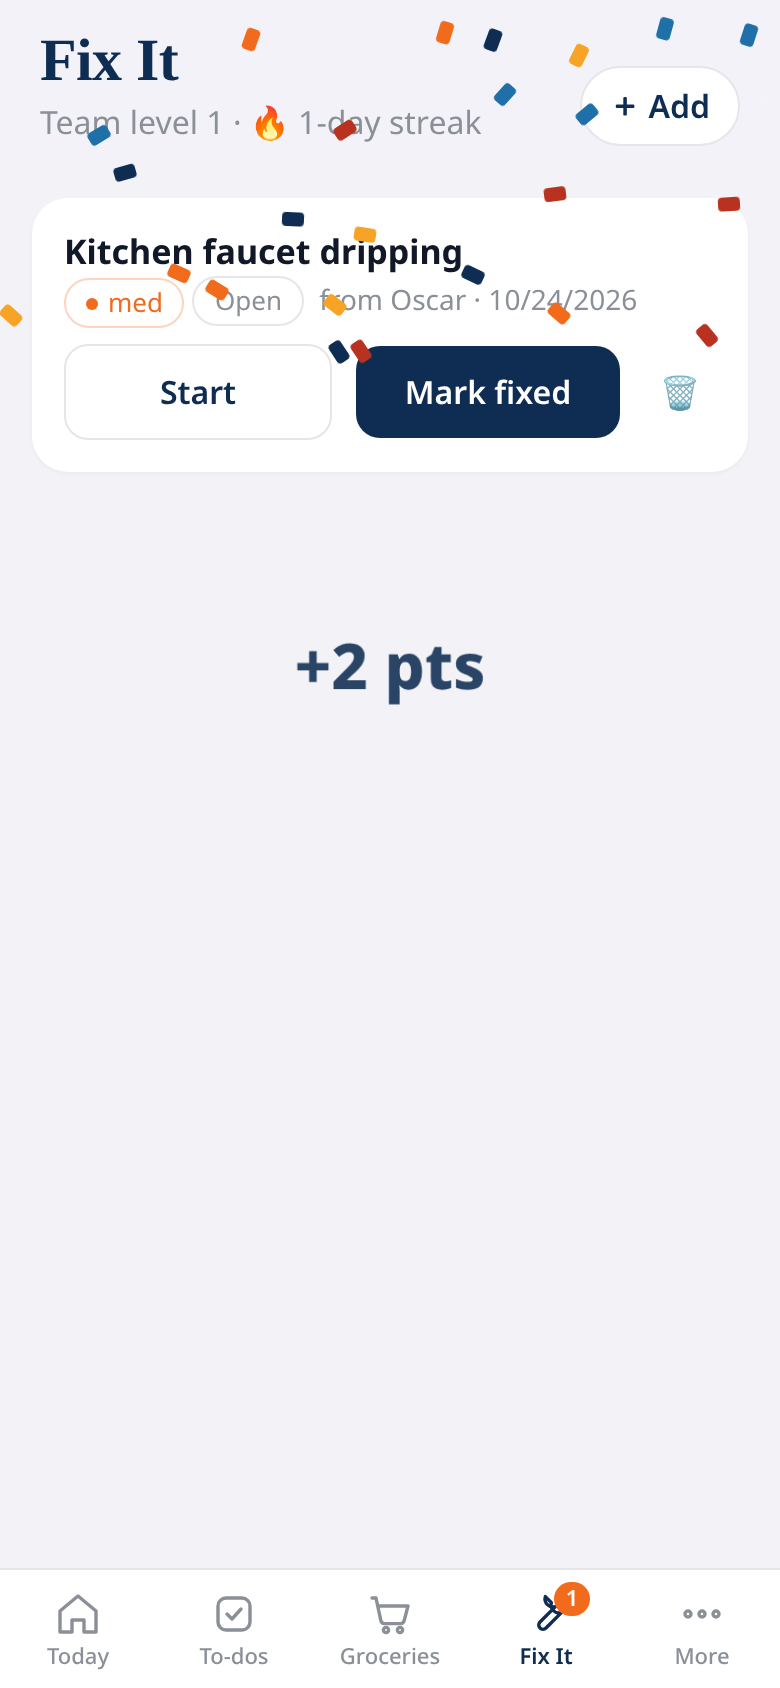
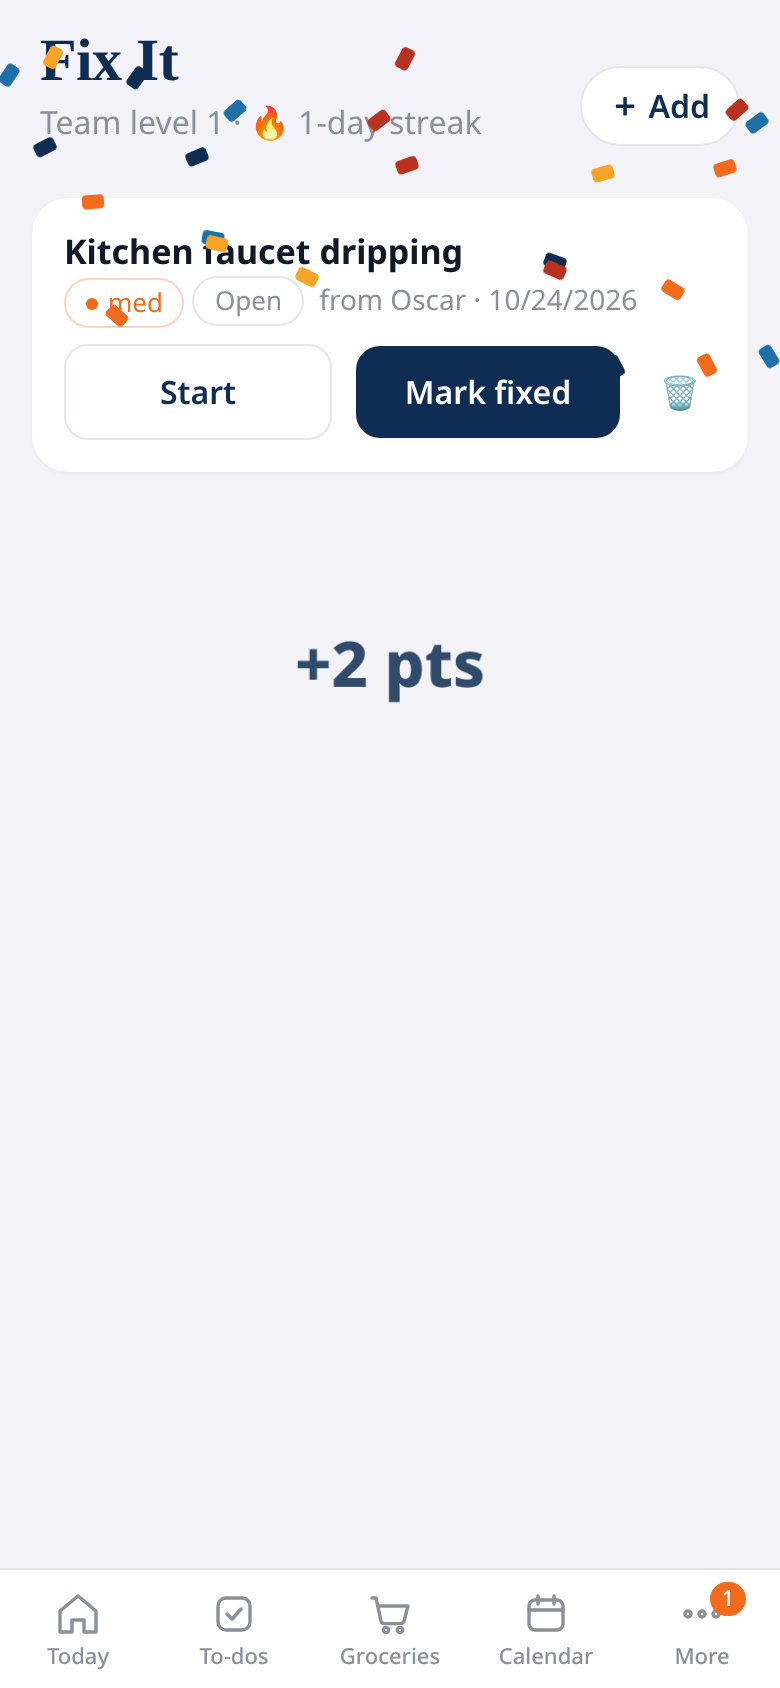
v8: shared smart calendar, work ICS import, Fix It moved to More/Today

diff --git a/cal.js b/cal.js
@@ -1,0 +1,90 @@
+// @ts-nocheck
+// Shared calendar module for Arpero Family + Arpero Shop. Data: families/arpero/{events,chores,maint,dates}, meta/work, private/ics
+const pad=n=>String(n).padStart(2,'0'),ymd=d=>`${d.getFullYear()}-${pad(d.getMonth()+1)}-${pad(d.getDate())}`,hm=d=>`${pad(d.getHours())}:${pad(d.getMinutes())}`;
+const esc=s=>String(s??'').replace(/[&<>"']/g,c=>'&#'+c.charCodeAt(0)+';');
+const addD=(s,n)=>{const d=new Date(s+'T12:00');d.setDate(d.getDate()+n);return ymd(d)};
+export function parseICS(txt,days=75){const un=txt.replace(/\r?\n[ \t]/g,''),out=[],now=new Date(),lim=new Date(+now+days*864e5),from=new Date(+now-2*864e5);
+ const dt=(v,p)=>{if(!v)return null;if(/^\d{8}$/.test(v))return new Date(+v.slice(0,4),+v.slice(4,6)-1,+v.slice(6,8));const m=v.match(/(\d{4})(\d\d)(\d\d)T(\d\d)(\d\d)(\d\d)?(Z?)/);if(!m)return null;
+  return m[7]?new Date(Date.UTC(+m[1],+m[2]-1,+m[3],+m[4],+m[5])):new Date(+m[1],+m[2]-1,+m[3],+m[4],+m[5])};
+ for(const blk of un.split('BEGIN:VEVENT').slice(1)){const b=blk.split('END:VEVENT')[0],get=k=>{const m=b.match(new RegExp('^'+k+'([;:][^\\n]*)$','m'));if(!m)return null;const i=m[1].lastIndexOf(':');return{p:m[1].slice(0,i),v:m[1].slice(i+1).trim()}};
+  if(/^STATUS:CANCELLED/m.test(b)||/^TRANSP:TRANSPARENT/m.test(b))continue;const s0=get('DTSTART'),e0=get('DTEND');const s=dt(s0?.v),e=dt(e0?.v)||(s&&new Date(+s+36e5));if(!s)continue;
+  const allDay=/^\d{8}$/.test(s0.v),dur=e-s,ex=new Set();(b.match(/^EXDATE[^:]*:(.*)$/gm)||[]).forEach(l=>l.split(':').pop().split(',').forEach(v=>{const d=dt(v.trim());d&&ex.add(+d)}));
+  const push=st=>{if(ex.has(+st))return;const en=new Date(+st+dur);if(en>=from&&st<=lim)out.push({s:allDay?ymd(st):ymd(st)+'T'+hm(st),e:allDay?ymd(new Date(+en-1)):ymd(en)+'T'+hm(en),allDay})};
+  const rr=get('RRULE');if(!rr){push(s);continue}
+  const R=Object.fromEntries(rr.v.split(';').map(x=>x.split('='))),iv=+R.INTERVAL||1,until=R.UNTIL?dt(R.UNTIL):lim,cnt=+R.COUNT||1e4,DAYS=['SU','MO','TU','WE','TH','FR','SA'];
+  let n=0;const end=until<lim?until:lim;
+  if(R.FREQ==='WEEKLY'){const by=R.BYDAY?R.BYDAY.split(',').map(x=>DAYS.indexOf(x.slice(-2))):[s.getDay()];const ws=new Date(s);ws.setDate(ws.getDate()-ws.getDay());
+   for(let w=new Date(ws);w<=end&&n<cnt;w.setDate(w.getDate()+7*iv))for(const d of by.sort()){const st=new Date(w);st.setDate(w.getDate()+d);st.setHours(s.getHours(),s.getMinutes(),0,0);if(st<s||st>end||n>=cnt)continue;n++;push(st)}}
+  else if(R.FREQ==='DAILY'){for(let st=new Date(s);st<=end&&n<cnt;st.setDate(st.getDate()+iv)){n++;push(new Date(st))}}
+  else if(R.FREQ==='MONTHLY'){for(let st=new Date(s);st<=end&&n<cnt;st.setMonth(st.getMonth()+iv)){n++;push(new Date(st))}}
+  else push(s)}
+ return out.sort((a,b)=>a.s>b.s?1:-1)}
+export function initCal({db,F,me,el,app,names={oscar:'Oscar',wife:'Kerissa'},onChange}){
+ const C=n=>F.collection(db,'families','arpero',n),D=(n,id)=>F.doc(db,'families','arpero',n,id),S={events:[],chores:[],maint:[],dates:[],work:{blocks:[]},ics:{},view:'agenda',sheet:null};
+ const nm=k=>names[k]||k,uid=()=>Math.random().toString(36).slice(2,10);
+ const subs=[];
+ async function refreshICS(force){const u=(S.ics.url||'').trim().replace(/^webcal:/i,'https:');if(!u)return;S.busy=true;render();let txt='',how='direct';
+  try{const r=await fetch(u,{cache:'no-store'});if(!r.ok)throw Error('HTTP '+r.status);txt=await r.text()}catch(e){if(!S.ics.proxy){await F.setDoc(D('meta','work'),{...S.work,err:'Blocked by the browser (CORS). Add a proxy URL in settings.',at:Date.now()});S.busy=false;return render()}
+   try{how='proxy';const r=await fetch(S.ics.proxy+encodeURIComponent(u),{cache:'no-store'});if(!r.ok)throw Error('HTTP '+r.status);txt=await r.text()}catch(e2){await F.setDoc(D('meta','work'),{...S.work,err:'Could not load: '+e2.message,at:Date.now()});S.busy=false;return render()}}
+  if(!/BEGIN:VCALENDAR/.test(txt)){await F.setDoc(D('meta','work'),{...S.work,err:'That link is not a calendar (.ics) file.',at:Date.now()});S.busy=false;return render()}
+  const blocks=parseICS(txt);await F.setDoc(D('meta','work'),{blocks,at:Date.now(),err:'',how});S.busy=false;render()}
+ let tried=false;function maybeRefresh(){if(tried||!S.ics.url)return;tried=true;if(!S.work.at||Date.now()-S.work.at>6*36e5)refreshICS()}
+ setInterval(()=>{tried=false;maybeRefresh()},30*6e4);
+ function all(from,to){const L=[],inR=d=>d>=from&&d<=to;
+  S.events.forEach(e=>{if(inR(e.s.slice(0,10)))L.push({...e,lab:e.src==='shop'?(app==='shop'?e.title:`Oscar busy: Shop${e.title?' · '+e.title:''}`):e.title,c:e.src==='shop'?'#0f2d52':e.kind==='date'?'#e0457b':'#f26a1b'})});
+  (S.work.blocks||[]).forEach(b=>inR(b.s.slice(0,10))&&L.push({...b,lab:'Oscar at work',c:'#8a8f98',src:'work',ro:1}));
+  S.chores.forEach(c=>c.next&&inR(c.next<from?from:c.next)&&L.push({s:c.next<from?from:c.next,allDay:true,lab:`🧹 ${c.name} (${nm(c.turn)})`,c:'#f26a1b',ro:1}));
+  S.maint.forEach(m=>{const due=m.last?addD(m.last,m.every):from;inR(due<from?from:due)&&L.push({s:due<from?from:due,allDay:true,lab:'🛠 '+m.name,c:'#f7a325',ro:1})});
+  S.dates.forEach(d=>{if(!d.date)return;let n=d.date;if(d.yearly){const y=+from.slice(0,4);n=y+d.date.slice(4);if(n<from)n=(y+1)+d.date.slice(4)}inR(n)&&L.push({s:n,allDay:true,lab:'📅 '+d.name,c:'#e0457b',ro:1})});
+  return L.sort((a,b)=>(a.s.slice(0,10)+(a.allDay?'':a.s.slice(10)))>(b.s.slice(0,10)+(b.allDay?'':b.s.slice(10)))?1:-1)}
+ function busy(day){return all(day,day).filter(e=>!e.allDay&&e.s.includes('T')).map(e=>[e.s.slice(11),e.e?.slice(11)||e.s.slice(11)])}
+ function suggest(kind){const out=[],t=new Date(),dur=kind==='date'?3:1;for(let i=0;i<21&&out.length<3;i++){const day=addD(ymd(t),i),dow=new Date(day+'T12:00').getDay(),b=busy(day);
+   const starts=kind==='date'?(dow===5||dow===6?[18,19,17]:[19]):[9,10,11,13,14,15,16,17,18,19];if(kind==='date'&&![0,5,6].includes(dow)&&i<7&&out.length<1)continue;
+   for(const h of starts){const s=pad(h)+':00',e=pad(h+dur)+':00';if(i===0&&h<=t.getHours())continue;if(b.some(([bs,be])=>bs<e&&be>s))continue;out.push({day,s,e});break}}return out}
+ const css=`<style>.cal .dh{font-weight:700;color:#0f2d52;margin:18px 4px 8px;font-size:15px}.cal .ev{display:flex;gap:12px;align-items:center;background:#fff;padding:14px 16px;border-bottom:1px solid #e5e5ea;min-height:56px}.cal .ev:last-child{border-bottom:0}.cal .grp{background:#fff;border-radius:18px;overflow:hidden}
+ .cal .dot{width:10px;height:10px;border-radius:50%;flex:0 0 10px}.cal .tm{color:#8a8f98;font-size:14px;width:74px;flex:0 0 74px}.cal .chip{display:inline-block;margin:6px 6px 0 0;padding:10px 14px;border-radius:20px;border:1px solid #e5e5ea;background:#fff;color:#0f2d52;font-size:15px}
+ .cal .mod{position:fixed;inset:0;background:rgba(0,0,0,.3);z-index:50;display:flex;align-items:flex-end}.cal .mod>div{background:#f2f2f7;width:100%;max-height:92vh;overflow:auto;border-radius:20px 20px 0 0;padding:20px 20px calc(20px + env(safe-area-inset-bottom))}
+ .cal input,.cal select,.cal textarea{font-size:16px;width:100%;padding:12px 14px;border:1px solid #e5e5ea;border-radius:12px;background:#fff;box-sizing:border-box;-webkit-appearance:none}.cal label{display:block;margin:14px 0 6px;font-size:14px;color:#8a8f98}
+ .cal button{font-size:16px;min-height:46px;border:0;border-radius:12px;padding:12px 16px;background:#0f2d52;color:#fff;font-weight:600}.cal button.s{background:#fff;color:#0f2d52;border:1px solid #e5e5ea}.cal .r{display:flex;gap:10px}.cal .r>*{flex:1}.cal .sub{color:#8a8f98;font-size:14px}.cal .warn{background:#fff4ec;border-radius:14px;padding:12px 14px;margin:10px 0;font-size:15px}</style>`;
+ function render(){if(!el.isConnected&&!el.closest)return;const from=ymd(new Date()),to=addD(from,13),L=all(from,to),by={};L.forEach(e=>(by[e.s.slice(0,10)]=by[e.s.slice(0,10)]||[]).push(e));
+  const tl=e=>e.allDay||!e.s.includes('T')?'All day':e.s.slice(11)+(e.e&&e.e.includes('T')?'–'+e.e.slice(11):'');
+  const fmt=d=>{const x=new Date(d+'T12:00');return d===from?'Today':d===addD(from,1)?'Tomorrow':x.toLocaleDateString('en',{weekday:'long',month:'short',day:'numeric'})};
+  el.innerHTML=css+`<div class="cal"><div class="r" style="margin:6px 0"><button id="cAdd">＋ Add event</button>${me==='oscar'?'<button class="s" id="cSet" style="flex:0 0 auto">⚙ Work calendar</button>':''}</div>
+  ${S.work.err&&me==='oscar'?`<div class="warn">Work calendar: ${esc(S.work.err)}</div>`:''}${S.busy?'<div class="sub">Refreshing work calendar…</div>':''}
+  ${Object.keys(by).length?Object.entries(by).map(([d,es])=>`<div class="dh">${fmt(d)}</div><div class="grp">${es.map(e=>`<div class="ev" ${e.id&&!e.ro?`data-cev="${e.id}"`:''}><span class="tm">${tl(e)}</span><span class="dot" style="background:${e.c}"></span><span style="flex:1">${esc(e.lab)}</span></div>`).join('')}</div>`).join(''):'<p class="sub" style="text-align:center;margin:30px 0">Nothing in the next 2 weeks.</p>'}
+  <p class="sub" style="margin:16px 4px">● Family &nbsp; <span style="color:#0f2d52">●</span> Shop &nbsp; <span style="color:#8a8f98">●</span> Work${S.work.at?' · work updated '+new Date(S.work.at).toLocaleString('en',{weekday:'short',hour:'numeric',minute:'2-digit'}):''}</p>${S.sheet||''}</div>`;
+  el.querySelector('#cAdd').onclick=()=>edit();el.querySelector('#cSet')&&(el.querySelector('#cSet').onclick=settings);
+  el.querySelectorAll('[data-cev]').forEach(x=>x.onclick=()=>edit(S.events.find(e=>e.id===x.dataset.cev)));
+  if(S.sheet)bindSheet();onChange?.()}
+ let bindSheet=()=>{};const close=()=>{S.sheet=null;render()};
+ function edit(e={}){const isShop=app==='shop';
+  S.sheet=`<div class="mod"><div><h2 style="margin:0 0 6px;color:#0f2d52">${e.id?'Edit':'New'} event</h2><label>What</label><input id="ct" value="${esc(e.title)}" placeholder="${isShop?'Pickup: walnut board':'Date night'}">
+  <label>Type</label><select id="ck">${(isShop?[['shop','Shop (build, pickup, order due)']]:[['date','Date night'],['chore','Chore / errand'],['family','Family']]).concat(isShop?[['family','Family']]:[]).map(([v,l])=>`<option value="${v}" ${(e.kind||(isShop?'shop':'family'))===v?'selected':''}>${l}</option>`).join('')}</select>
+  <div id="csug"></div><button class="s" id="cs" style="margin-top:10px;width:100%">✨ Suggest a free time</button>
+  <div class="r"><div><label>Date</label><input id="cd" type="date" value="${e.s?e.s.slice(0,10):ymd(new Date())}"></div></div>
+  <div class="r"><div><label>Start</label><input id="c1" type="time" value="${e.s&&e.s.includes('T')?e.s.slice(11):''}"></div><div><label>End</label><input id="c2" type="time" value="${e.e&&e.e.includes('T')?e.e.slice(11):''}"></div></div>
+  <p class="sub">Leave times empty for an all-day item.</p><div class="r" style="margin-top:14px"><button class="s" id="cx">Cancel</button><button id="co">Save</button></div>${e.id?'<button class="s" id="cdel" style="width:100%;margin-top:10px;color:#d1402b">Delete</button>':''}</div></div>`;
+  bindSheet=()=>{const q=s=>el.querySelector(s);q('#cx').onclick=close;q('.mod').onclick=ev=>{if(ev.target.classList.contains('mod'))close()};
+   q('#cs').onclick=()=>{const k=q('#ck').value,sg=suggest(k==='date'?'date':'chore');q('#csug').innerHTML=sg.length?'<label>Free times (avoids work & shop)</label>'+sg.map(x=>`<span class="chip" data-d="${x.day}" data-s="${x.s}" data-e="${x.e}">${new Date(x.day+'T12:00').toLocaleDateString('en',{weekday:'short',month:'short',day:'numeric'})} · ${x.s}</span>`).join(''):'<p class="sub">No free slot found in 3 weeks.</p>';
+    q('#csug').querySelectorAll('.chip').forEach(c=>c.onclick=()=>{q('#cd').value=c.dataset.d;q('#c1').value=c.dataset.s;q('#c2').value=c.dataset.e;if(!q('#ct').value)q('#ct').value=k==='date'?'Date night 💑':''})};
+   q('#co').onclick=async()=>{const t=q('#ct').value.trim(),d=q('#cd').value;if(!t||!d)return;const a=q('#c1').value,b=q('#c2').value,k=q('#ck').value;
+    const id=e.id||uid();await F.setDoc(D('events',id),{...e,id,title:t,kind:k,src:k==='shop'?'shop':'family',s:a?d+'T'+a:d,e:a?(d+'T'+(b||a)):d,allDay:!a,by:me,at:Date.now()});close()};
+   if(e.id)q('#cdel').onclick=async()=>{await F.deleteDoc(D('events',e.id));close()}};
+  render()}
+ function settings(){S.sheet=`<div class="mod"><div><h2 style="margin:0 0 6px;color:#0f2d52">Work calendar (Outlook)</h2><p class="sub">In Outlook on the web: Settings → Calendar → Shared calendars → Publish a calendar → "Can view when I'm busy" → copy the <b>ICS</b> link and paste it here. Only you two can see it.</p>
+  <label>ICS link</label><textarea id="iu" rows="3" autocapitalize="off" autocorrect="off" spellcheck="false" inputmode="url" placeholder="https://outlook.office365.com/owa/calendar/…/calendar.ics">${esc(S.ics.url||'')}</textarea>
+  <div class="r" style="margin-top:8px"><button class="s" id="ip">📋 Paste</button><button class="s" id="ic">Clear</button></div>
+  <label>Proxy (only if Outlook blocks the direct fetch)</label><input id="ix" autocapitalize="off" autocorrect="off" spellcheck="false" inputmode="url" placeholder="https://your-worker.workers.dev/?url=" value="${esc(S.ics.proxy||'')}">
+  <div class="r" style="margin-top:14px"><button class="s" id="cx">Cancel</button><button id="co">Save & refresh</button></div></div></div>`;
+  bindSheet=()=>{const q=s=>el.querySelector(s);q('#cx').onclick=close;q('#ic').onclick=()=>q('#iu').value='';
+   q('#ip').onclick=async()=>{try{q('#iu').value=(await navigator.clipboard.readText()).trim()}catch{q('#iu').focus()}};
+   q('#co').onclick=async()=>{const url=q('#iu').value.trim(),proxy=q('#ix').value.trim();S.ics={url,proxy};await F.setDoc(D('private','ics'),{url,proxy,at:Date.now()});if(!url)await F.setDoc(D('meta','work'),{blocks:[],at:Date.now(),err:''});close();if(url)refreshICS(true)}};
+  render()}
+ // Shop app: mirror project due dates into the shared store
+ async function syncShop(items){const keep=new Set();for(const it of items){if(!it.date)continue;const id='shop_'+it.id;keep.add(id);const cur=S.events.find(e=>e.id===id);
+   if(!cur||cur.title!==it.title||cur.s!==it.date)await F.setDoc(D('events',id),{id,title:it.title,kind:'shop',src:'shop',s:it.date,e:it.date,allDay:true,auto:true,by:'oscar',at:Date.now()})}
+  for(const e of S.events)if(e.auto&&e.src==='shop'&&!keep.has(e.id))await F.deleteDoc(D('events',e.id))}
+ ['events','chores','maint','dates'].forEach(n=>subs.push(F.onSnapshot(C(n),s=>{S[n]=s.docs.map(d=>d.data());render()},()=>{})));
+ subs.push(F.onSnapshot(D('meta','work'),s=>{S.work=s.exists()?s.data():{blocks:[]};render()},()=>{}));
+ if(me==='oscar')subs.push(F.onSnapshot(D('private','ics'),s=>{S.ics=s.exists()?s.data():{};maybeRefresh();render()},()=>{}));
+ render();return{render,syncShop,suggest,stop:()=>subs.forEach(f=>f())}}

diff --git a/index.html b/index.html
@@ -109,11 +109,12 @@ if(A.isSignInWithEmailLink(auth,location.href)){let e=localStorage.emailForSignI
 function afterLinkSheet(){if(!linkNote)return;linkNote=false;const u=auth.currentUser;
  sheet(`<h2>You're signed in! 🎉</h2><p>Next time, just tap the <b>Arpero Family</b> icon on your home screen.</p><p class="sub">If the home-screen app asks you to sign in again, create a password below, then in the app tap <b>Sign in with email → Use a password instead</b>.</p><label>New password (optional)</label><input id="npw" type="password" autocomplete="new-password" placeholder="At least 6 characters"><button id="npwb" style="width:100%;margin-top:10px">Save password</button><p id="npwm" class="sub"></p>`);
   $('#npwb').onclick=async()=>{try{await A.updatePassword(u,$('#npw').value);$('#npwm').textContent='✅ Password saved. Use it in the home-screen app.'}catch(x){$('#npwm').textContent=errTxt(x)}}}
-let unsubs=[];
+let unsubs=[],calApi=null;const calEl=document.createElement('div');
 A.onAuthStateChanged(auth,u=>{unsubs.forEach(f=>f());unsubs=[];
  if(!u){$('#login').hidden=false;$('#app').hidden=true;return}
  retried=0;S.me=who(u.email);$('#login').hidden=true;$('#app').hidden=false;setTimeout(afterLinkSheet,300);startListeners(u)});
 function startListeners(u){unsubs.forEach(f=>f());unsubs=[];if(!u)return;
+ if(!calApi){import('./cal.js?v=8').then(m=>{calApi=m.initCal({db,F,me:S.me,el:calEl,app:'family',names:{oscar:nm('oscar'),wife:nm('wife')}});if(S.tab==='cal')R()})}
  for(const n of ['todos','items','logs','fixes','meals','chores','rewards','maint','ideas','dates','shop','shouts'])unsubs.push(F.onSnapshot(col(n),s=>{S[n]=s.docs.map(d=>d.data());if(n==='fixes')notifyFix();R()},err=>denied(err)));
  unsubs.push(F.onSnapshot(dref('meta','settings'),s=>{if(s.exists())S.meta=s.data();R()},()=>{}));
 }
@@ -151,15 +152,15 @@ function notifyFix(){const open=S.fixes.filter(f=>f.status!=='fixed');
  if(!firstFix&&S.me==='oscar'){const nw=S.fixes.filter(f=>f.at>S.seenFix&&f.by!=='oscar');if(nw.length&&'Notification'in window&&Notification.permission==='granted')new Notification('New Fix It request',{body:nw[0].note||'Something needs fixing',icon:'icon-180.png'})}
  firstFix=false}
 // ---------- render ----------
-const TABS=[['home','home','Today'],['todos','todos','To-dos'],['pantry','pantry','Groceries'],['fix','fix','Fix It'],['more','more','More']];
+const TABS=[['home','home','Today'],['todos','todos','To-dos'],['pantry','pantry','Groceries'],['cal','cal','Calendar'],['more','more','More']];
 function R(){
  const openFix=S.fixes.filter(f=>f.status!=='fixed'&&(S.me!=='oscar'||f.at>S.seenFix||f.status==='open')).length;
- $('#nav').innerHTML=TABS.map(([k,i,l])=>`<button class="${S.tab===k?'on':''}" data-t="${k}">${icon(i)}${l}${k==='fix'&&openFix?`<span class="badge">${openFix}</span>`:''}</button>`).join('');
+ $('#nav').innerHTML=TABS.map(([k,i,l])=>`<button class="${S.tab===k?'on':''}" data-t="${k}">${icon(i)}${l}${k==='more'&&openFix?`<span class="badge">${openFix}</span>`:''}</button>`).join('');
  $('#nav').querySelectorAll('button').forEach(b=>b.onclick=()=>{S.tab=b.dataset.t;S.sub=null;if(S.tab==='fix'){S.seenFix=Date.now();localStorage.seenFix=S.seenFix}R();scrollTo(0,0)});
- checkCh();$('#ttl').textContent=S.tab==='home'?'Arpero Family':S.sub?SUBS.find(x=>x[0]===S.sub)[2]:TABS.find(t=>t[0]===S.tab)[2];
+ checkCh();$('#ttl').textContent=S.tab==='home'?'Arpero Family':S.sub?SUBS.find(x=>x[0]===S.sub)[2]:S.tab==='fix'?'Fix It':TABS.find(t=>t[0]===S.tab)[2];
  const st=stats(),h=new Date().getHours();$('#who').textContent=S.tab==='home'?`Good ${h<12?'morning':h<17?'afternoon':'evening'}, ${nm(S.me)} 🧡`:`Team level ${st.lvl} · 🔥 ${st.st}-day streak`;$('#who').style.display=S.tab==='home'||!S.sub?'':'none';
  $('#addBtn').hidden=!['todos','pantry','fix'].includes(S.tab);
- $('#main').innerHTML=S.sub?(S.sub!=='more'?'<a href="#" data-sub="" style="display:inline-block;margin:2px 4px 6px;font-size:17px;text-decoration:none">‹ More</a>':'')+VIEWS[S.sub]():({home:vHome,todos:vTodos,pantry:vPantry,fix:vFix,more:vMore})[S.tab]();
+ $('#main').innerHTML=S.sub?(S.sub!=='more'?'<a href="#" data-sub="" style="display:inline-block;margin:2px 4px 6px;font-size:17px;text-decoration:none">‹ More</a>':'')+VIEWS[S.sub]():(S.tab==='cal'?'':({home:vHome,todos:vTodos,pantry:vPantry,fix:vFix,more:vMore})[S.tab]());if(S.tab==='cal'&&calApi){$('#main').append(calEl);calApi.render()}
  bind()}
 const dueTxt=d=>{if(!d)return'';const t=today();return d<t?`<span class="pill hi">Overdue ${d.slice(5)}</span>`:d===t?'<span class="pill md">Today</span>':`<span class="pill">${d.slice(5)}</span>`};
 let todoFilter='all';
@@ -378,7 +379,7 @@ function vHome(){const t=today(),tm=stats(),g=goal(),pc=Math.min(100,Math.round(
  `<div class="addrow" data-q="todo">＋ Add new to-do</div></div>`+
  (todo.length+ch.length?'':'<p class="sub center">All clear for today ✨</p>')+
  shoutCard()+monthCard()+(extras.length?`<div class="list">${extras.join('')}</div>`:'')}
-const SUBS=[['budget','💵','Budget & waste'],['compare','📊','Bought vs used'],['meals','🍽','Meal planner'],['chores','🧹','Chores'],['rewards','🎁','Rewards shop'],['maint','🛠','Home care'],['dates','💑','Date night & dates'],['challenges','🏅','Challenges'],['score','🏡','Team & settings']];
+const SUBS=[['fixit','🔧','Fix It requests'],['budget','💵','Budget & waste'],['compare','📊','Bought vs used'],['meals','🍽','Meal planner'],['chores','🧹','Chores'],['rewards','🎁','Rewards shop'],['maint','🛠','Home care'],['dates','💑','Date night & dates'],['challenges','🏅','Challenges'],['score','🏡','Team & settings']];
 function vMore(){return '<div class="list">'+SUBS.map(([k,i,l])=>`<div class="card row" data-sub="${k}"><span class="n" style="font-size:24px">${i}</span><b>${l}</b><span class="n sub">›</span></div>`).join('')+'</div>'}
 function vBudget(){const now=new Date(),ms=+new Date(now.getFullYear(),now.getMonth(),1),b=+S.meta.budget||0;
  const L=S.logs.filter(l=>l.at>=ms&&l.item),cat={};let spent=0,waste=0;
@@ -419,7 +420,7 @@ function vDates(){const nd=nextDates(),ideas=S.ideas.filter(i=>!i.done);
  ${nd.map(d=>`<div class="card row" data-dt="${d.id}"><div><b>${esc(d.name)}</b><div class="sub">${new Date(d.next+'T12:00').toLocaleDateString('en',{month:'short',day:'numeric',year:'numeric'})}${d.yrs>0&&/anniv/i.test(d.name)?' · '+d.yrs+' years 💍':''}</div></div><div class="n center"><div class="big" style="font-size:24px">${d.days}</div><div class="sub">days</div></div></div>`).join('')}<button class="s" id="newDate" style="width:100%">＋ Add a date (birthday, bill, anniversary)</button>`}
 function editDate(d={}){sheet(`<h2>${d.id?'Edit':'New'} date</h2><label>Name</label><input id="dn" value="${esc(d.name)}" placeholder="Kerissa's birthday"><label>Date</label><input id="dd" type="date" value="${d.date||''}"><label>Repeats</label><select id="dy"><option value="1" ${d.yearly!==false?'selected':''}>Every year</option><option value="0" ${d.yearly===false?'selected':''}>One time</option></select>${d.id?'<button class="d" id="ddel">Delete</button>':''}`,
  ()=>{if(!val('dn')||!$('#dd').value)return false;save('dates',{id:d.id||uid(),name:val('dn'),date:$('#dd').value,yearly:$('#dy').value==='1'})});if(d.id)$('#ddel').onclick=()=>{del('dates',d.id);close()}}
-const VIEWS={budget:vBudget,compare:()=>vStats(),meals:vMeals,chores:vChores,rewards:vRewards,maint:vMaint,dates:vDates,challenges:vChallenges,score:()=>vGame()};
+const VIEWS={fixit:()=>{setTimeout(()=>{S.tab='fix';S.sub=null;R()});return''},budget:vBudget,compare:()=>vStats(),meals:vMeals,chores:vChores,rewards:vRewards,maint:vMaint,dates:vDates,challenges:vChallenges,score:()=>vGame()};
 const plog=(type,pts,extra={})=>save('logs',{id:uid(),type,pts,by:S.me,at:Date.now(),...extra});
 function bindExtra(on){
  on('[data-sub]',e=>{S.tab='more';S.sub=e.dataset.sub||null;R();scrollTo(0,0)});

diff --git a/cloudflare-worker.js b/cloudflare-worker.js
@@ -1,0 +1,14 @@
+// ICS proxy for Arpero Family (Cloudflare Workers free tier: 100k requests/day, $0).
+// Deploy: dash.cloudflare.com → Workers → Create → paste → Deploy.
+// Then in the app: Calendar → Work calendar → Proxy = https://<name>.workers.dev/?url=
+export default {
+  async fetch(req) {
+    const cors = {'Access-Control-Allow-Origin': 'https://arperowoodworks.github.io', 'Access-Control-Allow-Methods': 'GET'};
+    if (req.method === 'OPTIONS') return new Response(null, {headers: cors});
+    const u = new URL(req.url).searchParams.get('url') || '';
+    let t; try { t = new URL(u) } catch { return new Response('bad url', {status: 400, headers: cors}) }
+    if (t.protocol !== 'https:' || !/^outlook\.(office365|office|live)\.com$/.test(t.hostname)) return new Response('host not allowed', {status: 403, headers: cors});
+    const r = await fetch(t.toString(), {cf: {cacheTtl: 900}});
+    return new Response(await r.text(), {status: r.status, headers: {...cors, 'Content-Type': 'text/calendar; charset=utf-8', 'Cache-Control': 'no-store'}});
+  }
+};

diff --git a/sw.js b/sw.js
@@ -1,4 +1,4 @@
-const C='arpero-family-v7',F=['./','index.html','parse.js','manifest.json','icon-180.png','icon-192.png','icon-512.png','apple-touch-icon.png','logo.png','favicon-32.png'];
+const C='arpero-family-v8',F=['./','index.html','parse.js','manifest.json','icon-180.png','icon-192.png','icon-512.png','apple-touch-icon.png','logo.png','cal.js','favicon-32.png'];
 self.addEventListener('install',e=>{e.waitUntil(caches.open(C).then(c=>c.addAll(F)));self.skipWaiting()});
 self.addEventListener('activate',e=>e.waitUntil(caches.keys().then(k=>Promise.all(k.filter(x=>x!==C).map(x=>caches.delete(x))))));
 self.addEventListener('fetch',e=>{if(e.request.method!=='GET'||new URL(e.request.url).origin!==location.origin)return;e.respondWith(fetch(e.request).then(r=>{const c=r.clone();caches.open(C).then(x=>x.put(e.request,c));return r}).catch(()=>caches.match(e.request)))});
